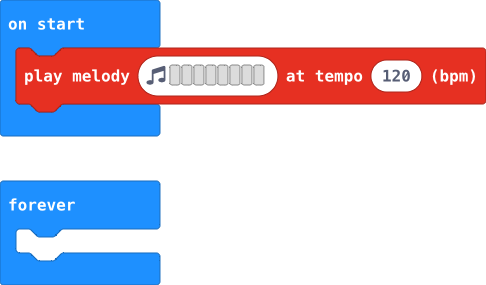
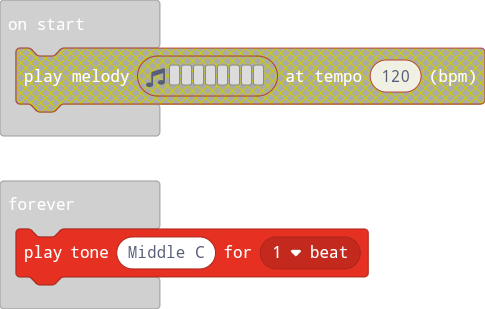
Update main.blocks, main.ts

diff --git a/main.ts b/main.ts
@@ -1,4 +1,3 @@
-music.playMelody("- - - - - - - - ", 120)
 basic.forever(function () {
-	
+    music.playTone(262, music.beat(BeatFraction.Whole))
 })
